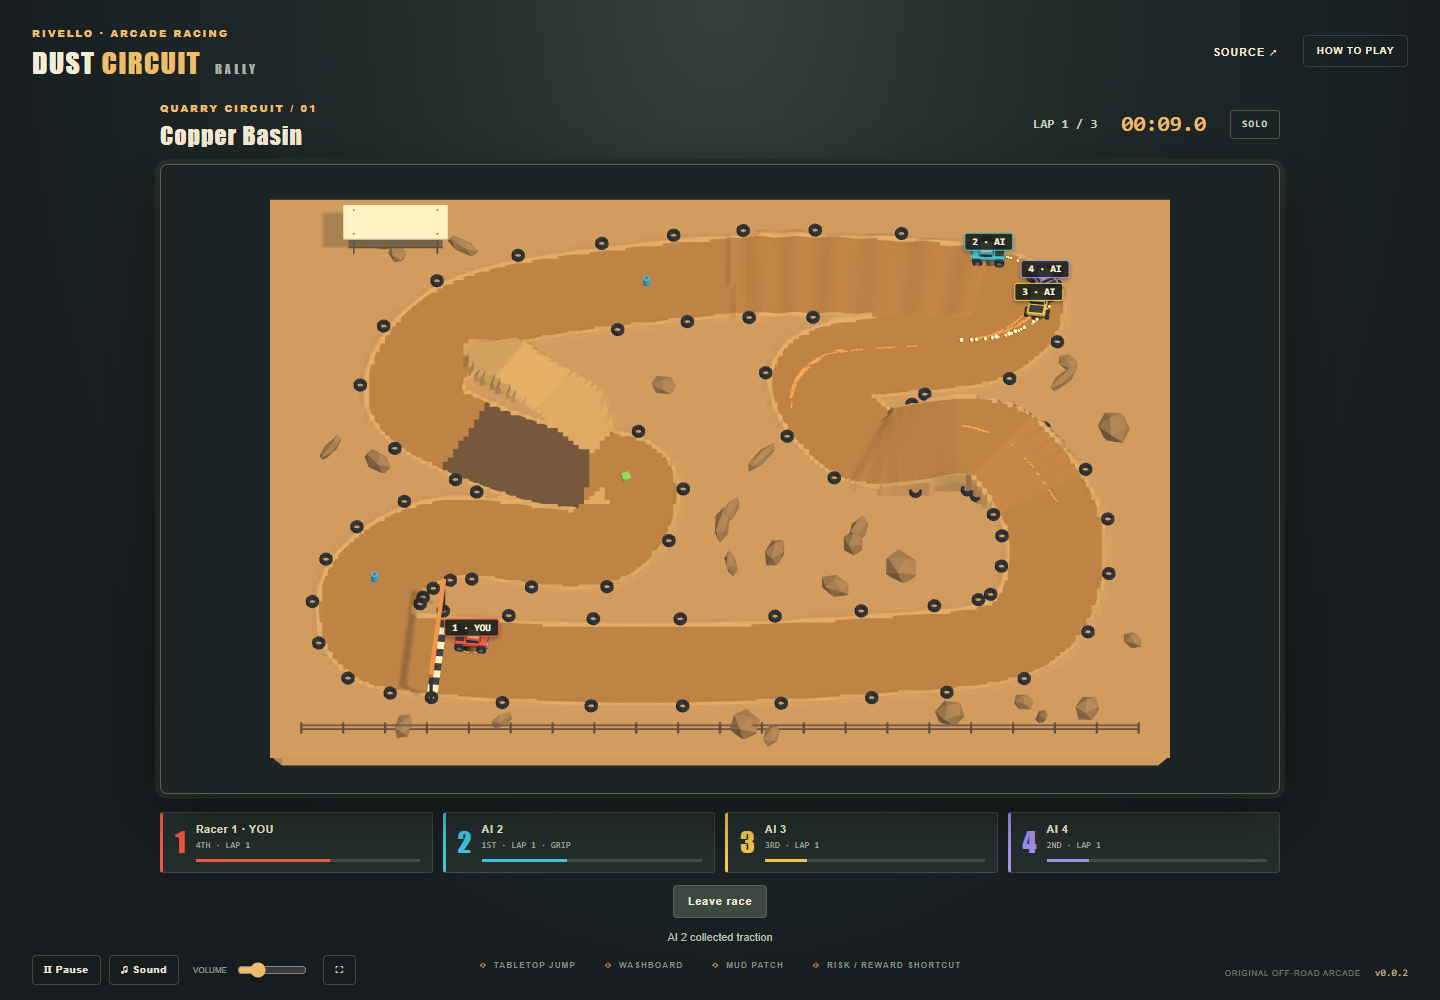
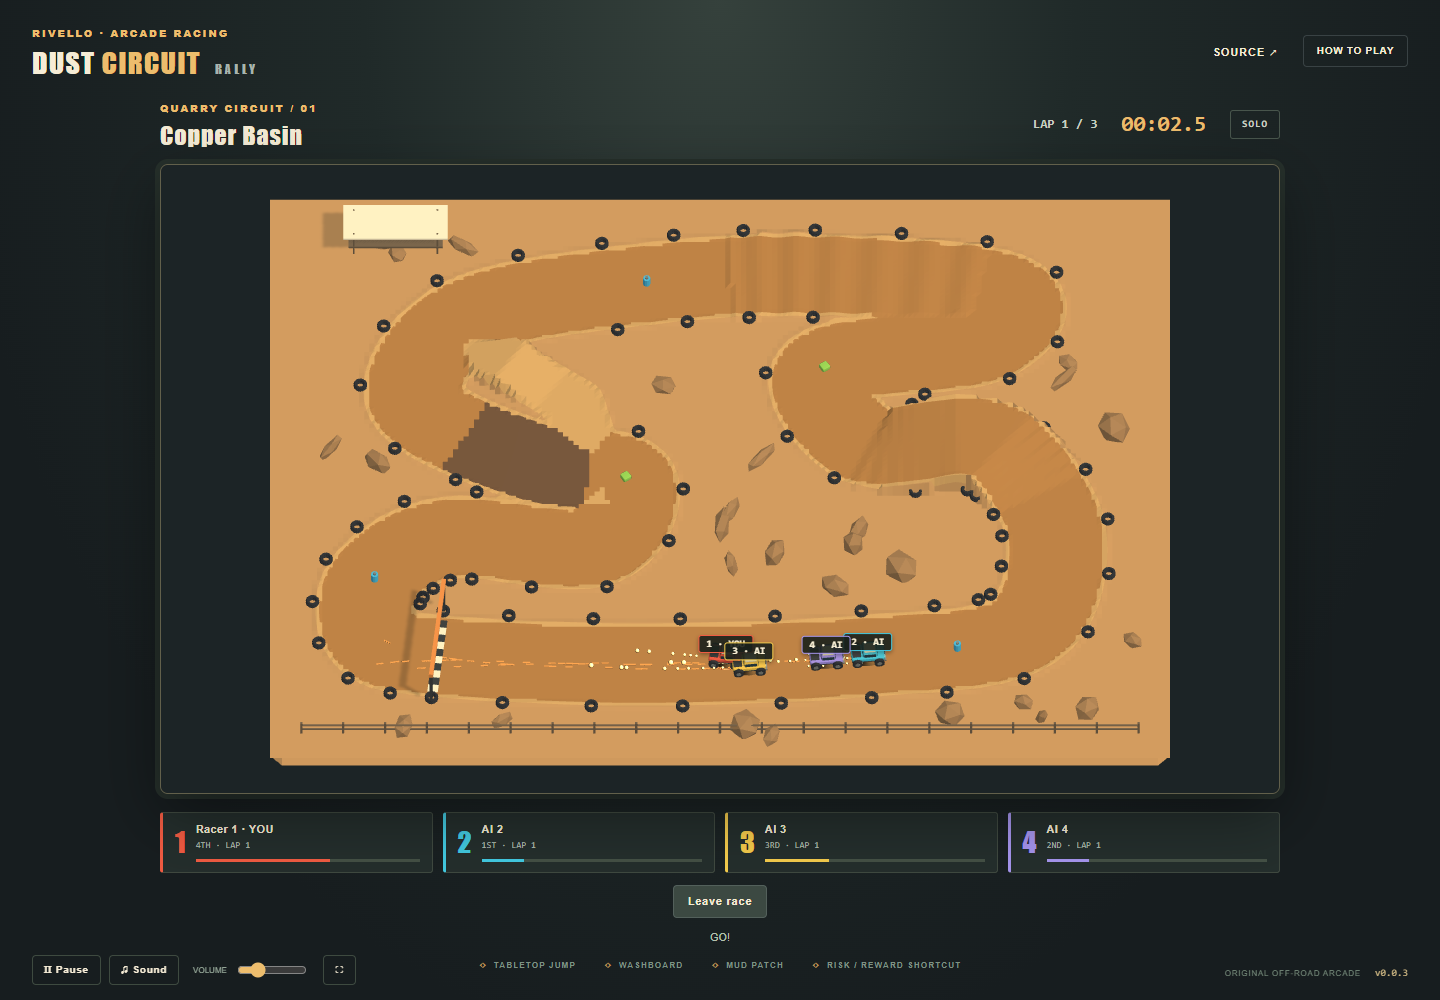
Link the released Pages game from the README

diff --git a/README.md b/README.md
@@ -4,7 +4,13 @@
 
 An original four-truck browser arcade racer with a fixed 16:9 landscape camera, solo practice, shared-screen racing, and online racing on the released shared server.
 
-Original Blender artwork is integrated. Public release verification is in progress.
+Original Blender artwork is integrated. Requires Chrome or Edge with WebGPU and hardware acceleration.
+
+## Live Demo
+
+[**Play Dust Circuit Rally**](https://samuelasherrivello.github.io/babylon-lite-super-offroad-clone/) — solo practice, local 2–4 players, or online racing with up to four humans.
+
+[Game release v0.0.3](https://github.com/SamuelAsherRivello/babylon-lite-super-offroad-clone/releases/tag/v0.0.3). The public page and all eight runtime GLBs loaded successfully, and the displayed version matches the release. Full public multiplayer verification is in progress.
 
 ## Preview
 
@@ -70,7 +76,7 @@ npm test checks independent keyboard/gamepad mappings and the released offline r
 
 The shared backend was released and live-verified as [v0.6.0](https://github.com/SamuelAsherRivello/rmc-colyseus-multiplayer-server/releases/tag/v0.6.0), including all 23 regression tests. [Release/deployment run](https://github.com/SamuelAsherRivello/rmc-colyseus-multiplayer-server/actions/runs/36695393931). The exact client artifact is pinned in package.json and package-lock.json.
 
-Game release uses the checked-in Release workflow: install, tests, reviewed-asset check, build, patch version bump, commit, tag, GitHub release. Pages uses the deploy-pages workflow on main or explicit dispatch. After release, dispatch Pages if the bot version commit did not trigger it; verify actual public gameplay/assets/version before announcing a playable URL. The current game has not been released.
+Game release uses the checked-in Release workflow: install, tests, reviewed-asset check, build, patch version bump, commit, tag, GitHub release. Pages uses the deploy-pages workflow on main or explicit dispatch. After release, dispatch Pages if the bot version commit did not trigger it. [Release run](https://github.com/SamuelAsherRivello/babylon-lite-super-offroad-clone/actions/runs/36721392105) and [v0.0.3 deployment](https://github.com/SamuelAsherRivello/babylon-lite-super-offroad-clone/actions/runs/36721641521) succeeded. Public asset/version evidence is recorded in project-name/documentation/public-assets-verification.json.
 
 ## Source Revisions
 
